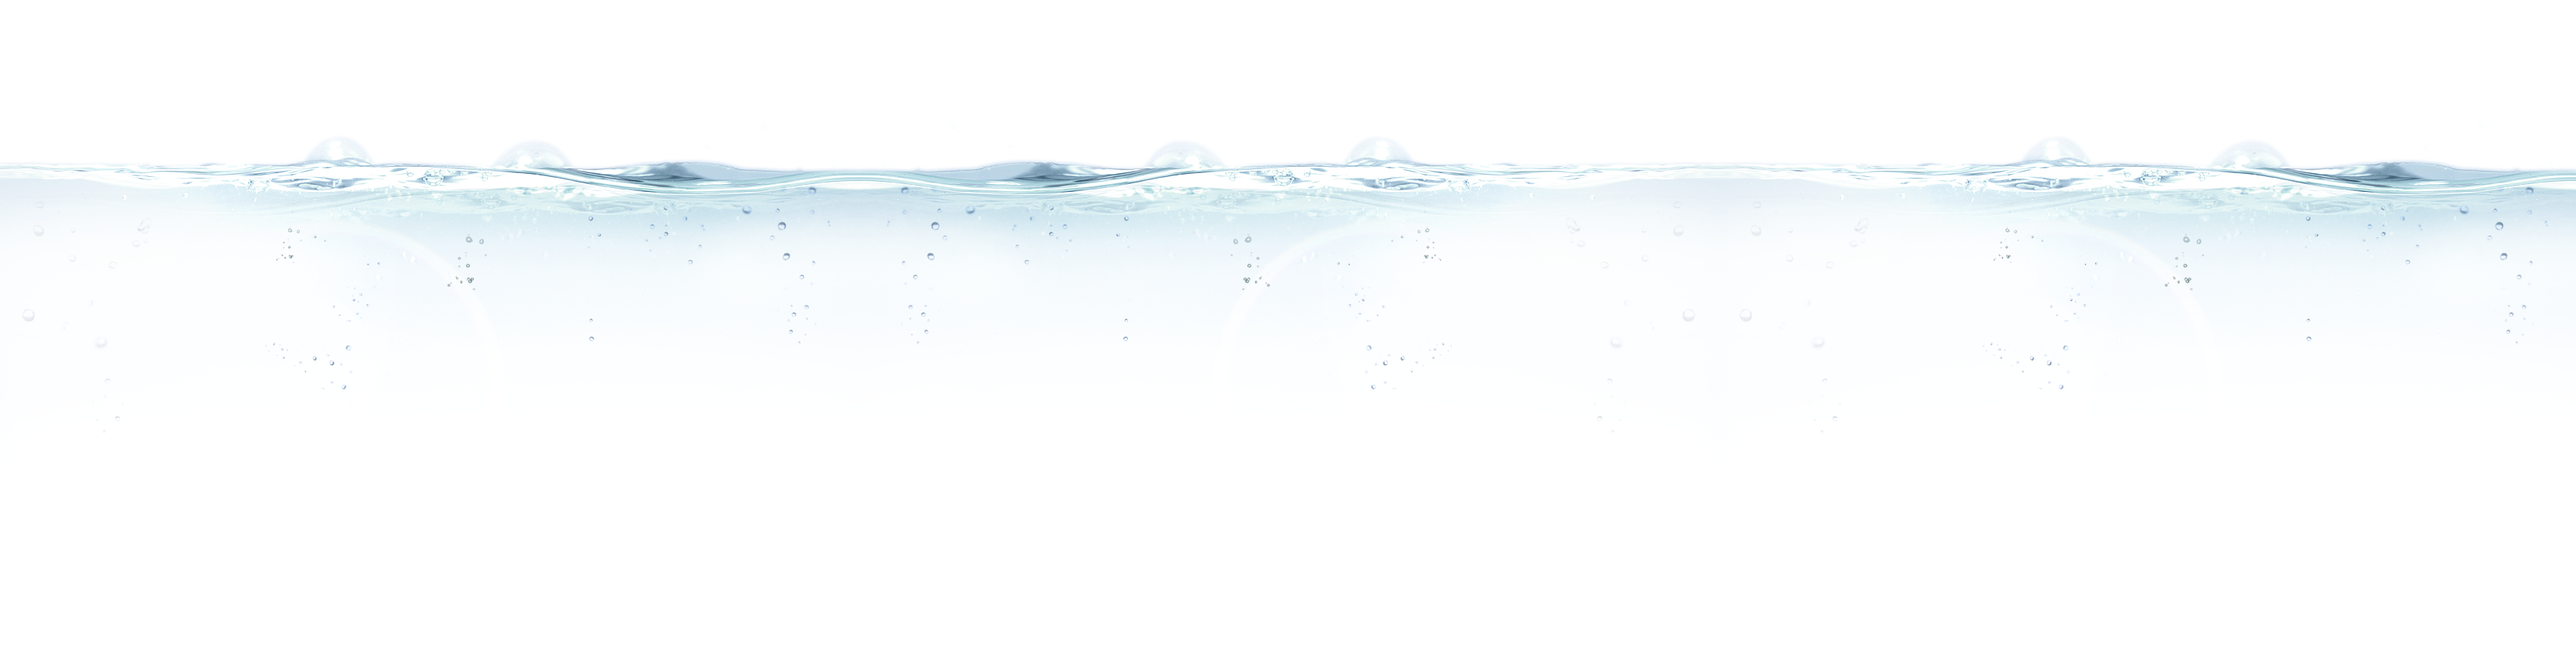
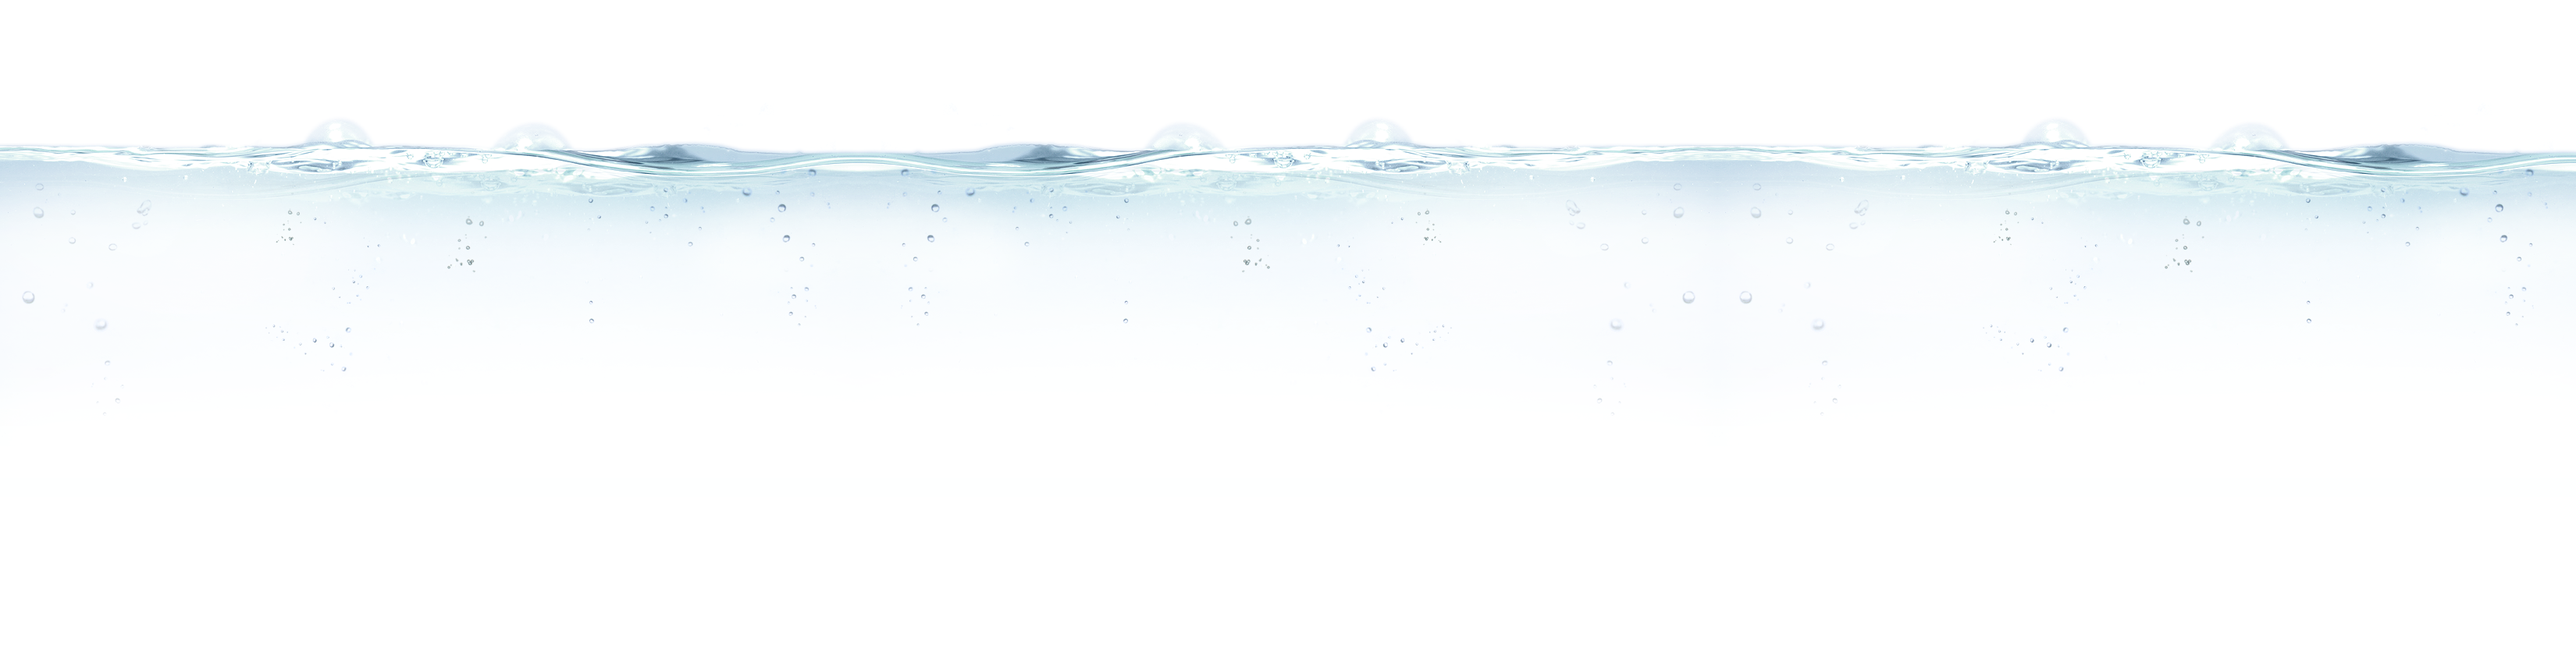
修改Logo、背景水波、新增FB

Changed region(s): [[0.0, 0.2141, 1.0, 0.3365]]

diff --git a/export/web/css/layout.css b/export/web/css/layout.css
@@ -48,13 +48,12 @@
 	height: 850px;
 	z-index: 1;
 }
-
 .wrap_bg_sky {
 	position: absolute;
 	top: 0px;
 	left: 0;
 	width: 100%;
-		min-width: 1100px;
+	min-width: 1100px;
 	height: 850px;
 	background-image: url(../images/bg_sky.png);
 	background-position: top center;
@@ -65,7 +64,7 @@
 	top: 580px;
 	left: 0;
 	width: 100%;
-		min-width: 1100px;
+	min-width: 1100px;
 	height: 150px;
 	background-color: #ffffff
 }
@@ -81,20 +80,27 @@
 .wrap_bg_water-main {
 	position: absolute;
 	top: -50px;
-	left: -700px;
+	left: -400px;
 	width: 3300px;
 	height: 850px;
-			background-image:url(../images/bg_water.png);
-		background-position: top center;
-		background-repeat:no-repeat;
+	background-image: url(../images/bg_water.png);
+	background-position: top center;
+	background-repeat: no-repeat;
 }
-.obj_water{
-min-width:1100px;width:100%; height:170px}
-.obj_bubble{
-width:292px; height:292px
+.obj_water {
+	min-width: 1100px;
+	width: 100%;
+	height: 170px
+}
+.obj_bubble {
+	width: 292px;
+	height: 292px
 }
 .wrap_bg_water-bubble {
-position:absolute;top:170px;left:1070px;z-index:2
+	position: absolute;
+	top: 170px;
+	left: 1070px;
+	z-index: 2
 }
 .wrap {
 	position: relative;
@@ -138,28 +144,28 @@ position:absolute;top:170px;left:1070px;z-index:2
 	width: 100%;
 }
 /* List */
-.list_product{
+.list_product {
 	list-style-type: none;
 	margin: 0;
-	padding: 0;	
+	padding: 0;
 }
-.list_product li{
-	float:left;
-	width:160px;
-	margin-top:20px;
-	text-align:center;
-	border-bottom:1px #3490e9 solid;
+.list_product li {
+	float: left;
+	width: 160px;
+	margin-top: 20px;
+	text-align: center;
+	border-bottom: 1px #3490e9 solid;
 }
-.list_product li .photo{
-	width:100%;
-	height:80px;
-	border-bottom:1px #3490e9 solid;
+.list_product li .photo {
+	width: 100%;
+	height: 80px;
+	border-bottom: 1px #3490e9 solid;
 }
-.list_product li .detail{
-	width:100%;
-	height:20px;
-	padding:5px;
-		padding-bottom:8px;
+.list_product li .detail {
+	width: 100%;
+	height: 20px;
+	padding: 5px;
+	padding-bottom: 8px;
 }
 .list_menu {
 	background-color: #ffffff;

diff --git a/export/web/index.html b/export/web/index.html
@@ -32,7 +32,7 @@
   <div class="wrap_content-main">
     <div class="fo_positionRelative fo_width_70 fo_textCenter"><br />
       <div class="fo_top_50"> <img src="images/img2_text.png" />
-        <ul class="fl_menu fo_pullCenter fo_width_55 fo_clearFix">
+        <ul class="fl_menu fo_pullCenter fo_width_60 fo_clearFix">
           <li><a href="contactUs.html"><img src="images/btn2_contactUs.png" /></a></li>
           <li><a href="product.hml"><img src="images/btn2_product.png" /></a></li>
           <li><a href="news.html"><img src="images/btn2_news.png" /></a></li>

diff --git a/export/web/product.html b/export/web/product.html
@@ -48,7 +48,7 @@
           </ul>
         </div>
       </div>
-      <a href="images/about.html"><img src="images/btn4_about.png" /></a> </div>
+      <a href="images/about.html"><img src="images/btn4_about.png" /></a><br /><a href="images/about.html"><img src="images/btn4_facebook.png" /></a>  </div>
     <div class="fo_width_80">
       <div class="fo_paddingLeft_10">
         <div class="fo_width_100 fo_radiusMax fo_background-white">

diff --git a/export/web/about2.html b/export/web/about2.html
@@ -46,9 +46,7 @@
             <li>彩虹日拋</li>
             <li>彩虹日拋</li>
           </ul>
-        </div>
-      </div>
-    </div>
+        </div>      </div><a href="images/about.html"><img src="images/btn4_facebook.png" /></a>    </div>
     <div class="fo_width_80">
       <div class="fo_paddingLeft_10 fo_opacityMin">
         <div class="fo_width_100 fo_radiusMax fo_background-white">

diff --git a/export/web/qa.html b/export/web/qa.html
@@ -47,7 +47,7 @@
               3148693號專利</li>
           </ul>
         </div>
-      </div><a href="images/news.html"><img src="images/btn4_news.png" /></a>
+      </div><a href="images/news.html"><img src="images/btn4_news.png" /></a><br /><a href="images/about.html"><img src="images/btn4_facebook.png" /></a>
     </div>
     <div class="fo_width_80">
       <div class="fo_paddingLeft_10">

diff --git a/export/web/contactUs.html b/export/web/contactUs.html
@@ -44,9 +44,7 @@
             <li>傳真: <br />
               (02)23776980</li>
           </ul>
-        </div>
-      </div>
-    </div>
+        </div>      </div><a href="images/about.html"><img src="images/btn4_facebook.png" /></a>    </div>
     <div class="fo_width_80">
       <div class="fo_paddingLeft_10">
         <div class="fo_width_100 fo_radiusMax fo_background-white">

diff --git a/export/web/news.html b/export/web/news.html
@@ -44,9 +44,7 @@
             <li>傳真: <br />
               (02)23776980</li>
           </ul>
-        </div>
-      </div>
-    </div>
+        </div>      </div><a href="images/about.html"><img src="images/btn4_facebook.png" /></a>    </div>
     <div class="fo_width_80">
       <div class="fo_paddingLeft_10">
         <div class="fo_width_100 fo_radiusMax fo_background-white">

diff --git a/export/web/news_sub.html b/export/web/news_sub.html
@@ -44,9 +44,7 @@
             <li>傳真: <br />
               (02)23776980</li>
           </ul>
-        </div>
-      </div>
-    </div>
+        </div>      </div><a href="images/about.html"><img src="images/btn4_facebook.png" /></a>    </div>
     <div class="fo_width_80">
       <div class="fo_paddingLeft_10">
         <div class="fo_width_100 fo_radiusMax fo_background-white">

diff --git a/export/web/js/ready.js b/export/web/js/ready.js
@@ -4,7 +4,7 @@ define(["ready", "jquery"], function() {
 		// Water //
 		//if($('.wrap_bg_water-main').length > 0) water($('.wrap_bg_water-main'));
 		
-		if($('.logo').length > 0)logoEffect($('.logo'));
+		//if($('.logo').length > 0) logoEffect($('.logo'));
 		
 		// Light //
 		if($('.wrap_light').length > 0) light($('.wrap_light'));

diff --git a/export/web/about.html b/export/web/about.html
@@ -45,7 +45,7 @@
               (02)23776980</li>
           </ul>
         </div>
-      </div>
+      </div><a href="images/about.html"><img src="images/btn4_facebook.png" /></a>
     </div>
     <div class="fo_width_80">
       <div class="fo_paddingLeft_10">
